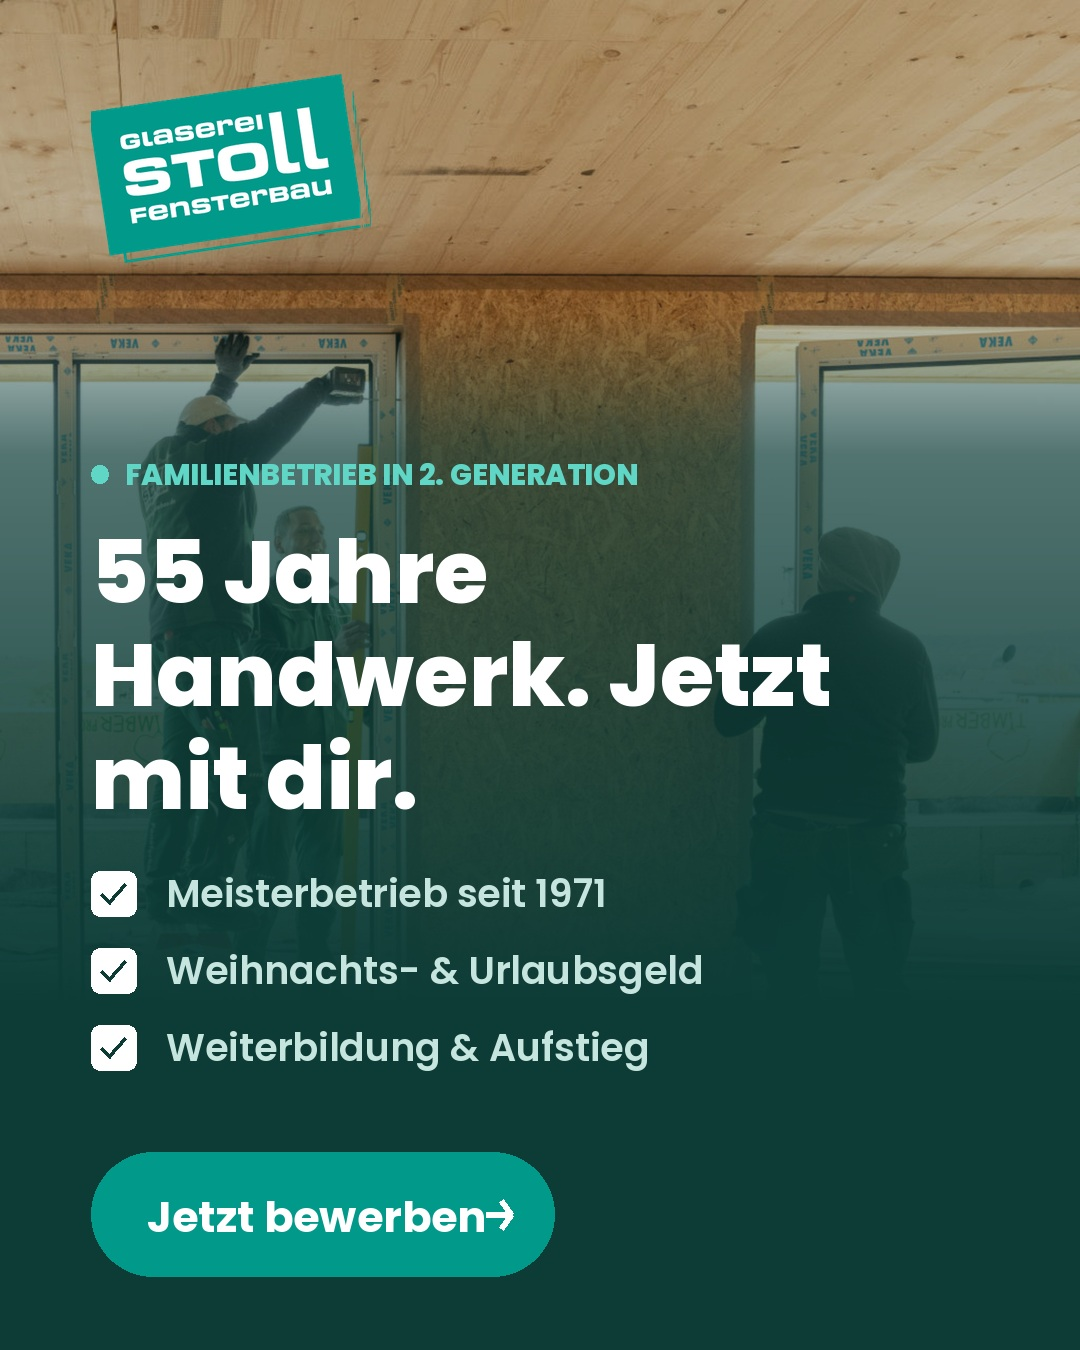
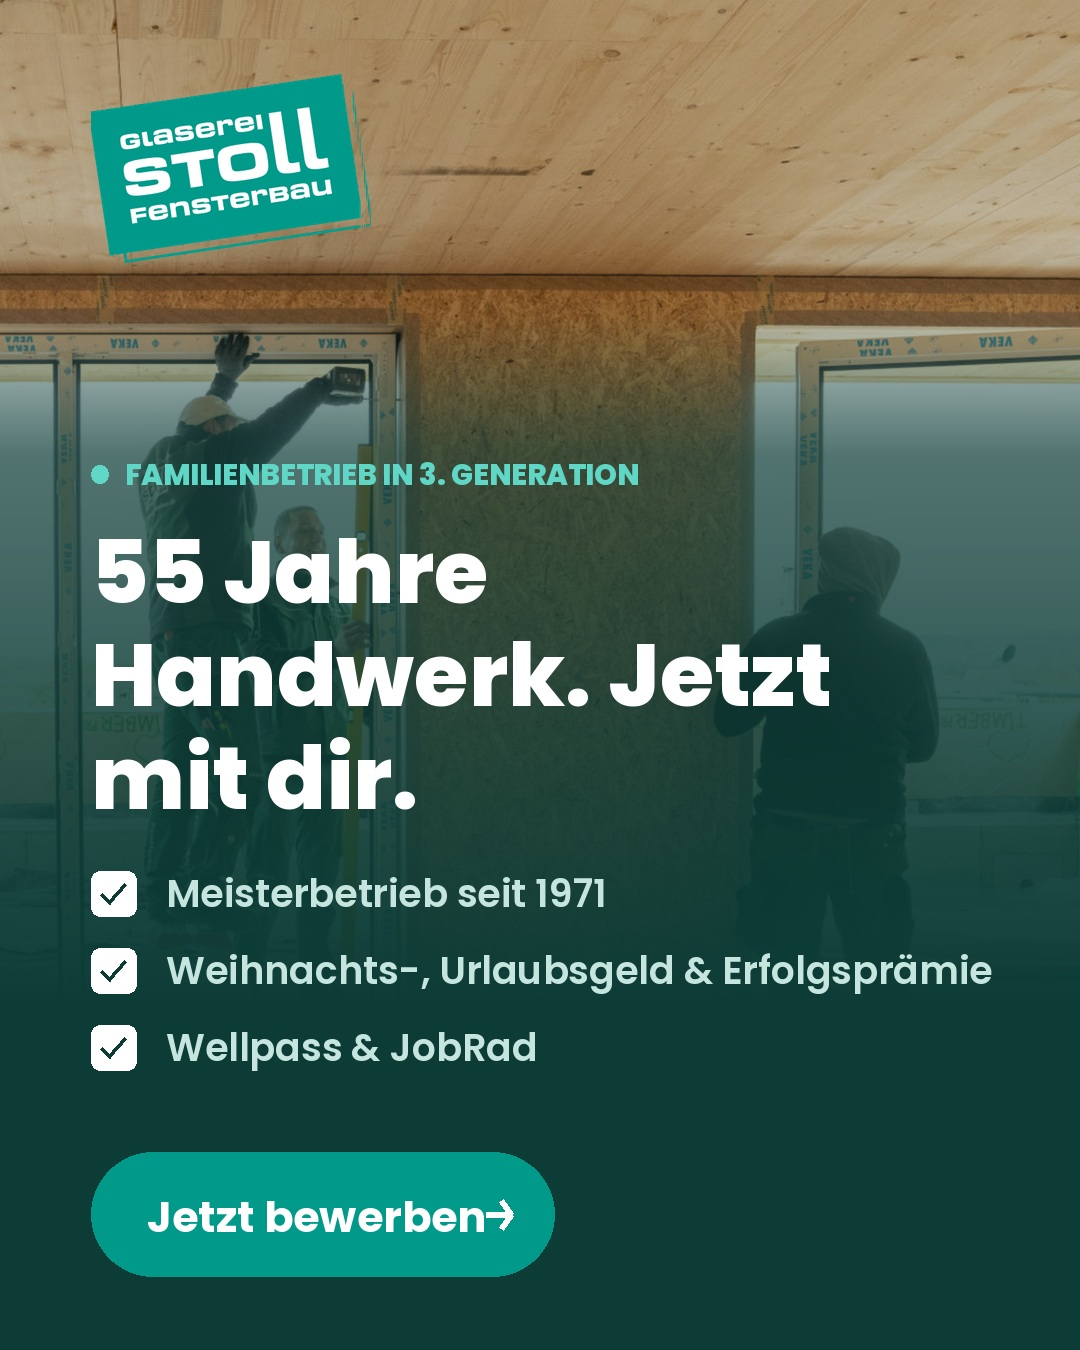
Kundenfeedback einarbeiten: 3. Generation, Erfolgspraemie, weichere Headline
- Familienbetrieb laeuft jetzt durchgaengig in dritter Generation:
  Trust-Band, Benefit-Kachel, Einleitungstext der Benefits, Creative "familie"
  und die Facebook-Bio. Der Einleitungstext nennt keine Namen mehr, sondern
  nur noch "heute in dritter Generation gefuehrt".
- Erfolgspraemie ergaenzt: im Creative "familie" als
  "Weihnachts-, Urlaubsgeld & Erfolgspraemie", auf der Landingpage in der
  Benefit-Kachel und in den jobBenefits. Ersetzt dort die bisherige
  Formulierung "Gewinnbeteiligung", bis geklaert ist, ob das zwei getrennte
  Leistungen sind.
- Letzter Punkt im Creative "familie": "Weiterbildung & Aufstieg" ersetzt
  durch "Wellpass & JobRad" - konkreter und noch nicht anderweitig belegt.
- Headline im Creative "koenner" entschaerft: aus "Wir suchen keinen Helfer.
  Wir suchen einen Koenner." wird "Wir suchen jemanden, der sein Handwerk
  kann." Der Filter bleibt ueber den Bullet "Montageerfahrung vorausgesetzt",
  die Abwertung faellt weg. Primary Text Variante 2 entsprechend angepasst.

Geprueft: Landingpage unveraendert stabil, mobile Laufruhe 0 px Abweichung
auf allen drei Displaygroessen.

Claude-Session: https://claude.ai/code/session_012Caei1EmdMWtETF9FZwLF1

Changed region(s): [[0.2139, 0.6844, 0.9167, 0.8089], [0.3972, 0.3422, 0.5806, 0.3733]]

diff --git a/index.html b/index.html
@@ -35,7 +35,7 @@
   "employmentType": "FULL_TIME",
   "hiringOrganization": { "@type": "Organization", "name": "Stoll Fensterbau GmbH", "sameAs": "https://www.stoll-fensterbau.de/" },
   "jobLocation": { "@type": "Place", "address": { "@type": "PostalAddress", "streetAddress": "Lange Gasse 53", "addressLocality": "Ammerbuch-Pfäffingen", "postalCode": "72119", "addressRegion": "BW", "addressCountry": "DE" } },
-  "jobBenefits": "Übertarifliche, leistungsgerechte Bezahlung, 14 € Spesen netto pro Arbeitstag, 50 € netto extra im Monat, Anwesenheitsprämie, Weihnachts- und Urlaubsgeld, Gewinnbeteiligung, betriebliche Altersvorsorge, vermögenswirksame Leistungen, Wellpass, JobRad, 38-Stunden-Vertrag bei 40 bezahlten Stunden, freitags Feierabend um 12 Uhr, Sommerfest und Wasen.",
+  "jobBenefits": "Übertarifliche, leistungsgerechte Bezahlung, 14 € Spesen netto pro Arbeitstag, 50 € netto extra im Monat, Anwesenheitsprämie, Weihnachts- und Urlaubsgeld, Erfolgsprämie, betriebliche Altersvorsorge, vermögenswirksame Leistungen, Wellpass, JobRad, 38-Stunden-Vertrag bei 40 bezahlten Stunden, freitags Feierabend um 12 Uhr, Sommerfest und Wasen.",
   "qualifications": "Erfahrung in der Fenster- und Türenmontage sowie gute Verständigung auf Deutsch. Abgeschlossene Ausbildung im Handwerk (z. B. Glaser, Schreiner, Metallbauer), Führerschein Klasse B und Staplerschein von Vorteil.",
   "url": "https://www.stoll-fensterbau.de/karriere/",
   "directApply": true
@@ -411,7 +411,7 @@ footer{padding:52px 0 36px;background:var(--brand-900);color:#d6eae6}
 <div class="trust">
   <div class="shell">
     <div class="trust__grid">
-      <div class="trust__item"><svg viewBox="0 0 24 24" fill="none" stroke-width="1.7" stroke-linecap="round" stroke-linejoin="round"><path d="M3 21h18"/><path d="M5 21V8l7-5 7 5v13"/><path d="M10 21v-6h4v6"/></svg><div><b>Seit 1971</b><span>Familienbetrieb, 2. Generation</span></div></div>
+      <div class="trust__item"><svg viewBox="0 0 24 24" fill="none" stroke-width="1.7" stroke-linecap="round" stroke-linejoin="round"><path d="M3 21h18"/><path d="M5 21V8l7-5 7 5v13"/><path d="M10 21v-6h4v6"/></svg><div><b>Seit 1971</b><span>Familienbetrieb, 3. Generation</span></div></div>
       <div class="trust__item"><svg viewBox="0 0 24 24" fill="none" stroke-width="1.7" stroke-linecap="round" stroke-linejoin="round"><circle cx="12" cy="8" r="6"/><path d="M8.2 13.9 7 22l5-3 5 3-1.2-8.1"/></svg><div><b>Meisterbetrieb</b><span>Handwerk mit Anspruch</span></div></div>
       <div class="trust__item"><svg viewBox="0 0 24 24" fill="none" stroke-width="1.7" stroke-linecap="round" stroke-linejoin="round"><path d="M12 22s8-4 8-10V5l-8-3-8 3v7c0 6 8 10 8 10"/><path d="m9 12 2 2 4-4"/></svg><div><b>Unbefristet</b><span>Sicherer Arbeitsplatz</span></div></div>
       <div class="trust__item"><svg viewBox="0 0 24 24" fill="none" stroke-width="1.7" stroke-linecap="round" stroke-linejoin="round"><path d="M13 2 3 14h7l-1 8 10-12h-7l1-8z"/></svg><div><b>Sofort möglich</b><span>Schneller Einstieg</span></div></div>
@@ -464,7 +464,7 @@ footer{padding:52px 0 36px;background:var(--brand-900);color:#d6eae6}
   <div class="shell">
     <span class="kicker">Warum Stoll</span>
     <h2 class="sec-title">Ein Betrieb, der sein Handwerk seit über 50 Jahren versteht.</h2>
-    <p class="sec-lead">1971 von Glasermeister Friedrich Stoll gegründet, seit 1996 von Norbert Stoll geführt – und mit Robin Stoll steht die nächste Generation schon bereit. Gute Leute sind rar, deshalb legen wir bei den Konditionen nach:</p>
+    <p class="sec-lead">1971 von Glasermeister Friedrich Stoll gegründet und heute in dritter Generation geführt. Gute Leute sind rar, deshalb legen wir bei den Konditionen nach:</p>
     <div class="benefit-grid">
       <div class="benefit reveal"><div class="benefit__ic"><svg viewBox="0 0 24 24" fill="none" stroke-width="1.8" stroke-linecap="round" stroke-linejoin="round"><path d="m3 17 6-6 4 4 8-8"/><path d="M17 7h4v4"/></svg></div><b>Übertariflich &amp; leistungsgerecht</b><p>Dein Lohn liegt über Tarif – und richtet sich danach, was du wirklich kannst.</p></div>
 
@@ -472,7 +472,7 @@ footer{padding:52px 0 36px;background:var(--brand-900);color:#d6eae6}
 
       <div class="benefit reveal"><div class="benefit__ic"><svg viewBox="0 0 24 24" fill="none" stroke-width="1.8" stroke-linecap="round" stroke-linejoin="round"><circle cx="12" cy="12" r="9"/><path d="M12 8v8M8 12h8"/></svg></div><b>50 € netto extra im Monat</b><p>Jeden Monat obendrauf – dazu kommt die Anwesenheitsprämie.</p></div>
 
-      <div class="benefit reveal"><div class="benefit__ic"><svg viewBox="0 0 24 24" fill="none" stroke-width="1.8" stroke-linecap="round" stroke-linejoin="round"><rect x="3" y="8" width="18" height="4" rx="1"/><path d="M12 8v13"/><path d="M19 12v7a2 2 0 0 1-2 2H7a2 2 0 0 1-2-2v-7"/><path d="M7.5 8a2.5 2.5 0 0 1 0-5C11 3 12 8 12 8s1-5 4.5-5a2.5 2.5 0 0 1 0 5"/></svg></div><b>Weihnachts- &amp; Urlaubsgeld</b><p>Zweimal im Jahr extra aufs Konto – plus Gewinnbeteiligung am Erfolg des Betriebs.</p></div>
+      <div class="benefit reveal"><div class="benefit__ic"><svg viewBox="0 0 24 24" fill="none" stroke-width="1.8" stroke-linecap="round" stroke-linejoin="round"><rect x="3" y="8" width="18" height="4" rx="1"/><path d="M12 8v13"/><path d="M19 12v7a2 2 0 0 1-2 2H7a2 2 0 0 1-2-2v-7"/><path d="M7.5 8a2.5 2.5 0 0 1 0-5C11 3 12 8 12 8s1-5 4.5-5a2.5 2.5 0 0 1 0 5"/></svg></div><b>Weihnachts- &amp; Urlaubsgeld</b><p>Zweimal im Jahr extra aufs Konto – dazu die Erfolgsprämie, wenn der Betrieb gut läuft.</p></div>
 
       <div class="benefit reveal"><div class="benefit__ic"><svg viewBox="0 0 24 24" fill="none" stroke-width="1.8" stroke-linecap="round" stroke-linejoin="round"><path d="M12 10V2"/><path d="m4.93 10.93 1.41 1.41"/><path d="M2 18h2"/><path d="M20 18h2"/><path d="m19.07 10.93-1.41 1.41"/><path d="M22 22H2"/><path d="m16 6-4 4-4-4"/><path d="M16 18a4 4 0 0 0-8 0"/></svg></div><b>Freitags um 12 Uhr Feierabend</b><p>Bei uns fängt das Wochenende schon mittags an – jede Woche.</p></div>
 
@@ -487,7 +487,7 @@ footer{padding:52px 0 36px;background:var(--brand-900);color:#d6eae6}
       <div class="benefit benefit--wide reveal">
         <div class="benefit__ic"><svg viewBox="0 0 24 24" fill="none" stroke-width="1.8" stroke-linecap="round" stroke-linejoin="round"><path d="M16 21v-2a4 4 0 0 0-4-4H6a4 4 0 0 0-4 4v2"/><circle cx="9" cy="7" r="4"/><path d="M22 21v-2a4 4 0 0 0-3-3.87"/><path d="M16 3.13a4 4 0 0 1 0 7.75"/></svg></div>
         <b>Sommerfest, Wasen &amp; ein Team, das zusammenhält</b>
-        <p>Familien- und Meisterbetrieb seit 1971 in zweiter Generation: kurze Wege, hochwertige Materialien, moderne Technik – und Weiterbildung, wenn du mehr willst. Gefeiert wird zusammen, vom Sommerfest bis zum Wasen.</p>
+        <p>Familien- und Meisterbetrieb seit 1971 in dritter Generation: kurze Wege, hochwertige Materialien, moderne Technik – und Weiterbildung, wenn du mehr willst. Gefeiert wird zusammen, vom Sommerfest bis zum Wasen.</p>
       </div>
     </div>
   </div>

diff --git a/README.md b/README.md
@@ -86,7 +86,7 @@ Kommuniziert werden (Stand Onboarding):
 
 übertarifliche, leistungsgerechte Bezahlung · 14 € Spesen netto pro Arbeitstag ·
 50 € netto extra im Monat · Anwesenheitsprämie · Weihnachts- & Urlaubsgeld ·
-Gewinnbeteiligung · BAV · VWL · Wellpass · JobRad · 38-Stunden-Vertrag bei
+Erfolgsprämie · BAV · VWL · Wellpass · JobRad · 38-Stunden-Vertrag bei
 40 bezahlten Stunden · freitags Feierabend um 12 Uhr · Sommerfest & Wasen ·
 Familien- und Meisterbetrieb seit 1971 · Weiterbildung.
 

diff --git a/creatives/README.md b/creatives/README.md
@@ -6,8 +6,8 @@ in `bilder/`.
 | Konzept | Winkel | Foto |
 |---|---|---|
 | `geld` | Benefits konkret – zieht über Lohn und Arbeitszeit | 9 |
-| `koenner` | Qualitätsfilter – spricht Könner an, schreckt Helfer ab | 27 |
-| `familie` | Sicherheit & Perspektive – Familienbetrieb, Aufstieg | 38 |
+| `koenner` | Qualitätsfilter – setzt Montageerfahrung voraus, ohne abzuwerten | 27 |
+| `familie` | Sicherheit & Perspektive – Familienbetrieb in 3. Generation | 38 |
 
 | Format | Datei | Platzierung |
 |---|---|---|
